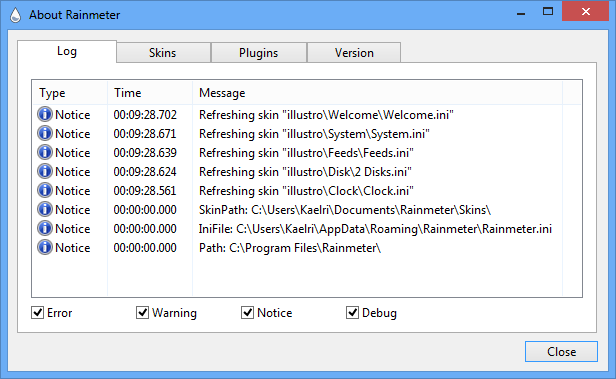
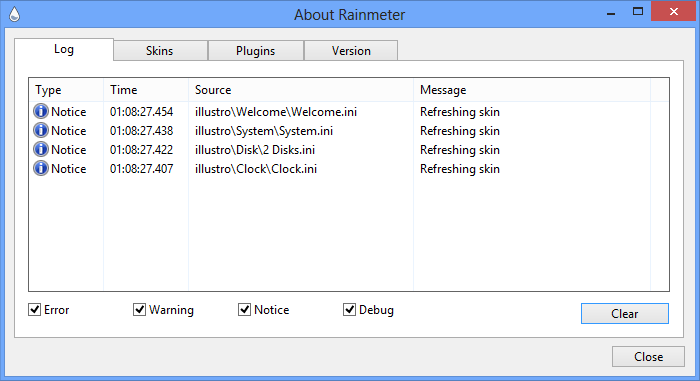
Updated docs for beta.

Changed region(s): [[0.0, 0.0, 1.0, 1.0], [0.1851, 0.4934, 0.8945, 0.6675]]

diff --git a/manual-beta/bangs.html b/manual-beta/bangs.html
@@ -52,13 +52,15 @@ title: 'Bangs'
 		<br><b>Example:</b> <code>!About Skins</code>
 	</dd>
 
-	<dt id="Manage"><code>!Manage</code> <small>Parameter: <code><em>TabName</em></code></small></dt>
+	<dt id="Manage"><code>!Manage</code> <small>Parameters: <code><em>TabName, Config, File</em></code></small></dt>
 	<dd>
 		Opens the <a href="!user-interface/manage">Manage</a> window.
 		<ul>
 		<li><code>TabName</code> (optional): Name of the tab to open. Valid values are: <code>Skins</code> (default), <code>Layouts</code>, and <code>Settings</code>.</li>
+		<li><code>Config</code> (optional): <a href="!skins#Config">Config name</a>.  If specified the list on the left will jump to and select the named config. If Config is specified, then TabName is required.</li>
+		<li><code>File</code> (optional): A skin .ini file in a named config.  If specified the list on the left will jump to and select the named skin .ini file.  If File is specified, then TabName and Config are required.</li>		
 		</ul>
-		<br><b>Example:</b> <code>!Manage Settings</code>
+		<br><b>Example:</b> <code>!Manage Skins "illustro\Clock" "Clock.ini"</code>
 	</dd>
 
 	<dt id="TrayMenu"><code>!TrayMenu</code></dt>

diff --git a/history.html b/history.html
@@ -8,6 +8,12 @@ title: 'Version History'
 
 <h2 id="3.0">Rainmeter 3.0</h2>
 
+<p>August 26, 2013 - Revision 2085<br/>
+<ul>
+<li><b>Added</b> About: Added a "Clear" button to the About / Log panel to remove the current contents of the log displayed in the panel.</li>
+<li><b>Changed</b> Bangs: Added "Config" and "File" parameters to the <a href="http://docs.rainmeter.net/manual-beta/bangs#Manage">!Manage</a> bang. This will allow opening the Manage / Skin panel with the desired config and / or skin .ini file automatically selected in the list.</li>
+</ul>
+
 <p>August 18, 2013 - Revision 2081<br/>
 <ul>
 <li><b>Added</b> Calc: Added a new <a href="http://docs.rainmeter.net/manual-beta/measures/calc#UniqueRandom">UniqueRandom</a> option. If set to 1, any measure using the random constant and UpdateRandom will not repeat until all values between and including LowBound and HighBound have been used. Note that any dynamic change to LowBound or HighBound will reset the tracking of values. See <a href="http://rainmeter.net/forum/viewtopic.php?p=91109#p91109">Change Announcements</a> for an example skin.</li>

diff --git a/manual-beta/user-interface/about.html b/manual-beta/user-interface/about.html
@@ -43,6 +43,8 @@ title: 'About'
 
 <p>The types of messages that are displayed by the log can be controlled with the checkboxes at the bottom of the list. This can be used to filter the display to only certain kinds of new messages.</p>
 
+<p>Click <b>Clear</b> to remove the current contents of the log panel.</p>
+
 <p><b>Note:</b> Custom log entries can be created using the <a href="!bangs#Log">!Log bang</a> from a skin, or the <a href="!lua-scripting#Log">print()</a> function in the <a href="!lua-scripting">Lua scripting language</a>. This can be very useful for debugging purposes.</p>
 
 <h2 id="SkinsTab">The Skins tab</h2>
